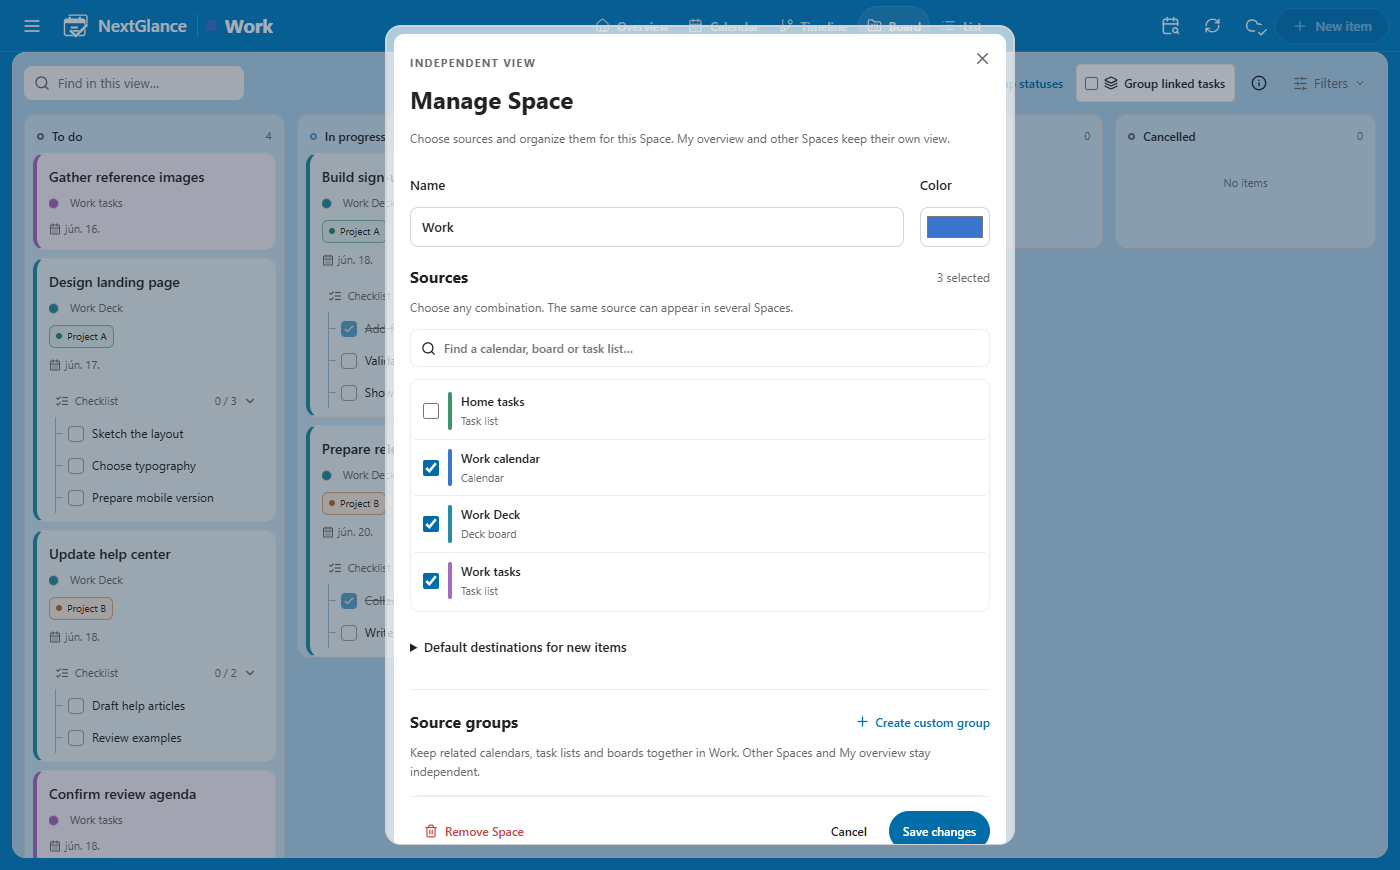
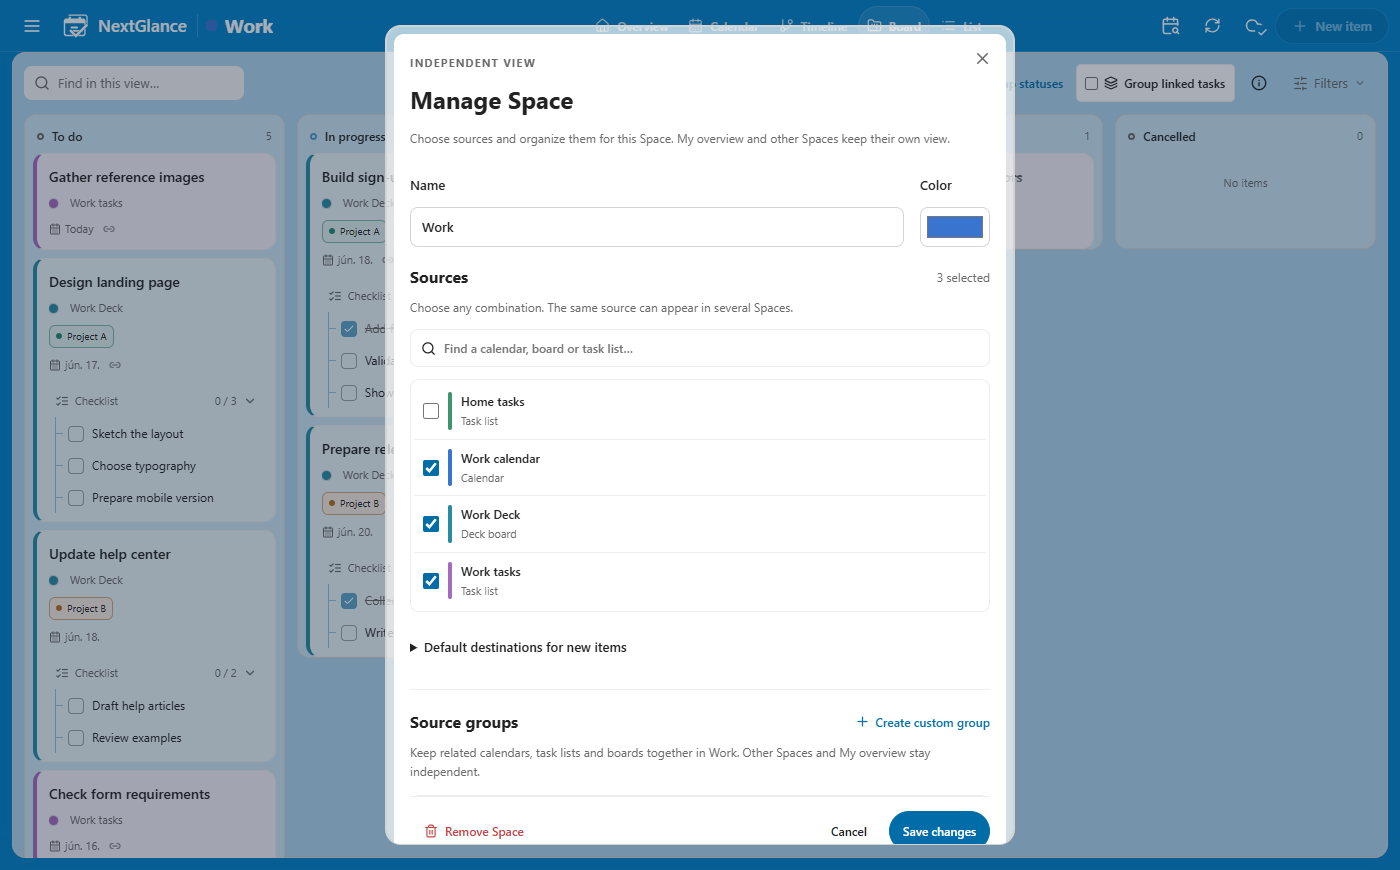
Showcase Overview and linked task planning in the guide

Changed region(s): [[0.7064, 0.1552, 0.7986, 0.3103], [0.0307, 0.9, 0.1536, 0.931]]

diff --git a/docs/GETTING-STARTED.md b/docs/GETTING-STARTED.md
@@ -20,9 +20,11 @@ Work now contains those sources across all five pages. Home tasks remain in My o
 
 Within Work, open **Group sources**, create **Delivery**, and assign the three Work sources.
 
-![Delivery combines tasks and Deck cards under a single group in Timeline.](images/guide/02-source-group-view.png)
+![Delivery combines one-day tasks and longer Deck card ranges; connectors show which work depends on which task.](images/guide/02-source-group-view.png)
 
 Timeline and Overview now group their rows under Delivery. Select Delivery in navigation to focus on those sources. Each item keeps its source color and permissions. This grouping affects Work only—not another Space or My overview. **Narrow by tags** can include just part of a source.
+
+In these examples, each task takes one day; Deck cards represent the larger assignment. The Timeline connectors show task-to-card dependencies. Use **Dependencies → Link task** on a card to connect your own tasks.
 
 ## 3. Project: focus on a particular outcome
 
@@ -32,6 +34,20 @@ Choose **Add project** from Work’s menu. Name it **Project A**, select its sou
 
 Project A and Project B can share a calendar or Deck board while showing different tagged items, including future matches. Several selected tags mean **any** matching tag. You can also add individual items from their details. Projects remain inside their Space and can sit within a source group.
 
+## Overview: work and bookings together
+
+![Overview aligns the work timeline above the calendar, with linked tasks, a Deck card and its review booking highlighted.](images/guide/04-overview.png)
+
+**Overview** puts task/card dates above calendar bookings on the same date axis. Select or hover an item to highlight linked work across the panes. Here, one-day tasks support a longer Deck card, and its linked review is an actual calendar booking. Work dates and booked time remain separate.
+
+## Board: keep linked tasks with their card
+
+Enable **Group linked tasks** in the Board toolbar (or its menu on smaller screens). Tasks the card waits for appear above it, such as **Gather reference images**; tasks that need the card appear below it, such as **Share design summary**.
+
+![Board shows linked tasks stacked around Deck cards, including an expanded stack and a clearly crossed-out completed task.](images/guide/05-board-linked-tasks.png)
+
+Tasks peek out from behind the card until you hover or select it; the stack then expands so you can read them. Completed tasks are crossed out. Completed Deck cards stay visible; archived cards are hidden. Completed tasks linked to a visible card remain visible even when other completed tasks are hidden. On touch, hold the card before dragging it—the card follows your finger and highlights its destination.
+
 ## Everyday planning
 
 - **Choose a page:** Overview combines a work timeline and calendar; Calendar offers **Day / Week / Month**; Timeline shows work ranges and dependencies; Board uses status columns; List gives a compact item list. On phones, tap the current page name to switch.
@@ -39,7 +55,6 @@ Project A and Project B can share a calendar or Deck board while showing differe
 - **Dates and bookings:** **Edit dates** changes a task/card’s work range. On Windows/Android, **Schedule in calendar** creates a linked booking with an editable title, description, location and reminder (15 minutes before by default). On Web, create the event first, then **Link existing event**. Moving a booking does not automatically move the work deadline.
 - **Events:** open an event to edit its details or use **Delete event**. Supported invitations offer attendee controls or Accept/Tentative/Decline. Restricted recurring/delegated edits open in Nextcloud.
 - **Dependencies:** **Waits for** lists prerequisites; **Needed by** lists dependent work. In a Deck card, **Link task**, **Create task** and **From checklist** connect native tasks. Checklist conversion reuses existing matches and saved retries; the original checklist and task completion remain separate.
-- **Board stacks:** enable **Group linked tasks** to show tasks around their Deck card. Completed Deck cards stay visible; archived cards are hidden. Completed tasks linked to a visible card remain visible even when other completed tasks are hidden. On touch, hold a card before dragging it; the card follows your finger and highlights the destination.
 - **Statuses and filters:** **Map statuses** customizes the current Space; **Use default** restores inheritance. **Filters → Unified statuses** limits the current page. Each page has independent filters, synchronized across devices—including My overview.
 - **Find linked work:** use **Jump to** beside a linked task or event. Board/List offer Calendar or Timeline as the destination.
 
